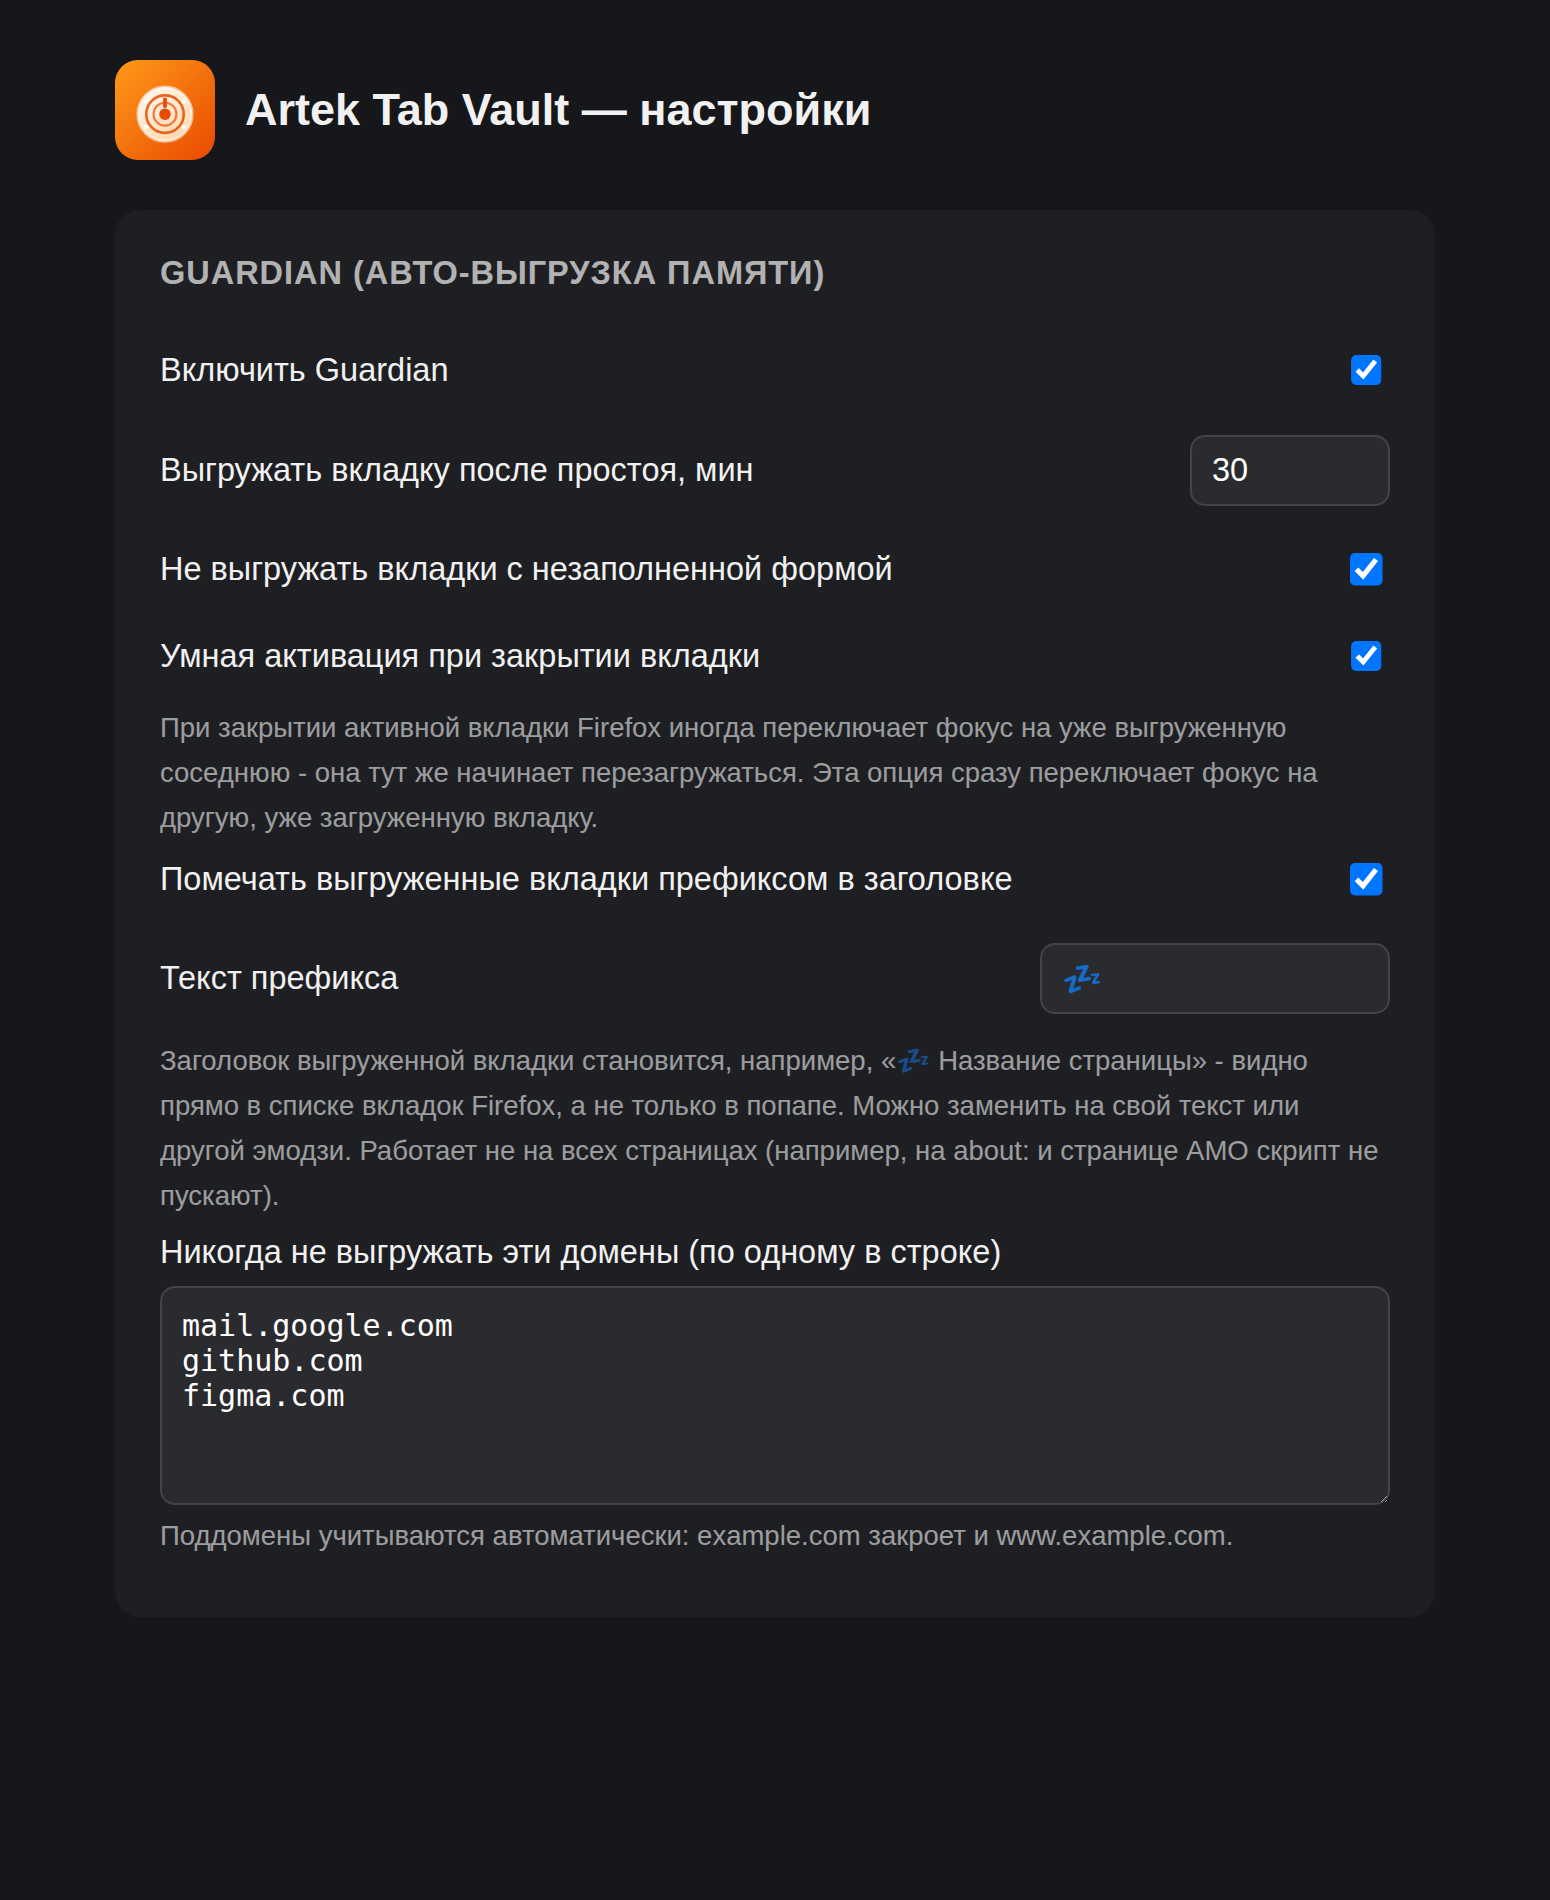
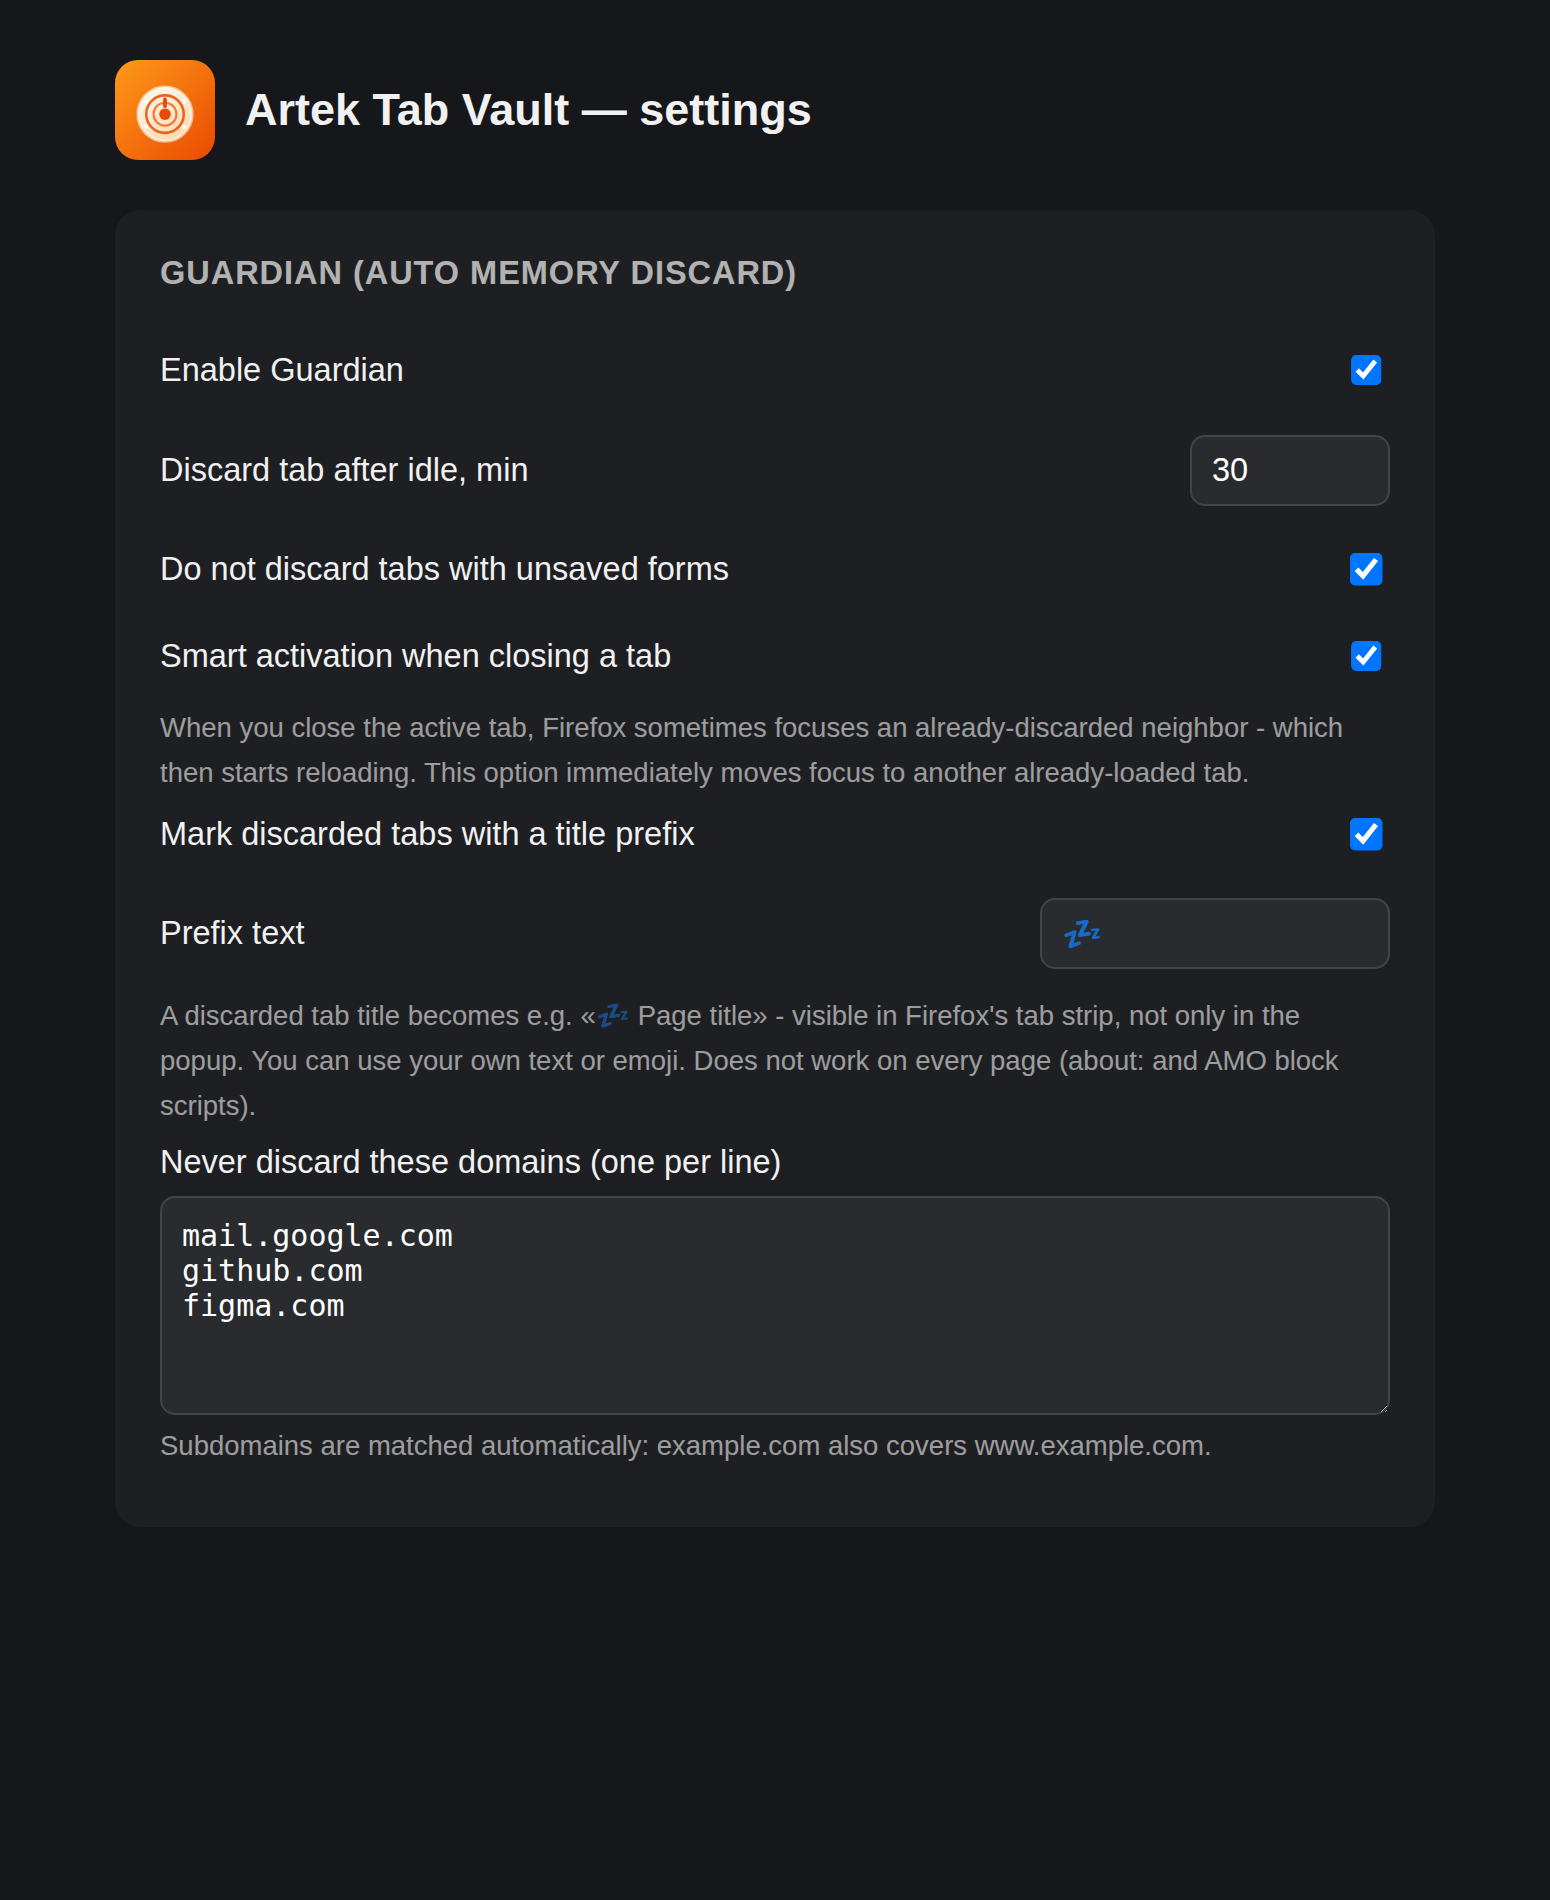
Regenerate AMO screenshots in English locale

diff --git a/scripts/make-store-assets.js b/scripts/make-store-assets.js
@@ -91,7 +91,8 @@ function prepareWorkspace() {
     filter: (src) => !/(node_modules|\.git|store-assets|web-ext-artifacts|listing)(\/|$)/.test(src),
   });
 
-  const messages = JSON.parse(fs.readFileSync(path.join(REPO, '_locales/ru/messages.json'), 'utf8'));
+  // Store listing screenshots use English (AMO default locale).
+  const messages = JSON.parse(fs.readFileSync(path.join(REPO, '_locales/en/messages.json'), 'utf8'));
   const flat = {};
   for (const [k, v] of Object.entries(messages)) flat[k] = v.message;
   fs.writeFileSync(

diff --git a/scripts/screenshot-mock.js b/scripts/screenshot-mock.js
@@ -64,7 +64,8 @@ const STORE = {
   tabvault_prune_log: PRUNE_LOG,
 };
 
-// Filled in by make-store-assets.js with flat { key: message } from _locales/ru.
+// Filled in by make-store-assets.js with flat { key: message } from _locales/en
+// (AMO listing screenshots are English).
 const I18N = typeof globalThis.__TV_I18N__ === 'object' && globalThis.__TV_I18N__ ? globalThis.__TV_I18N__ : {};
 
 function getMessage(key, substitutions) {
